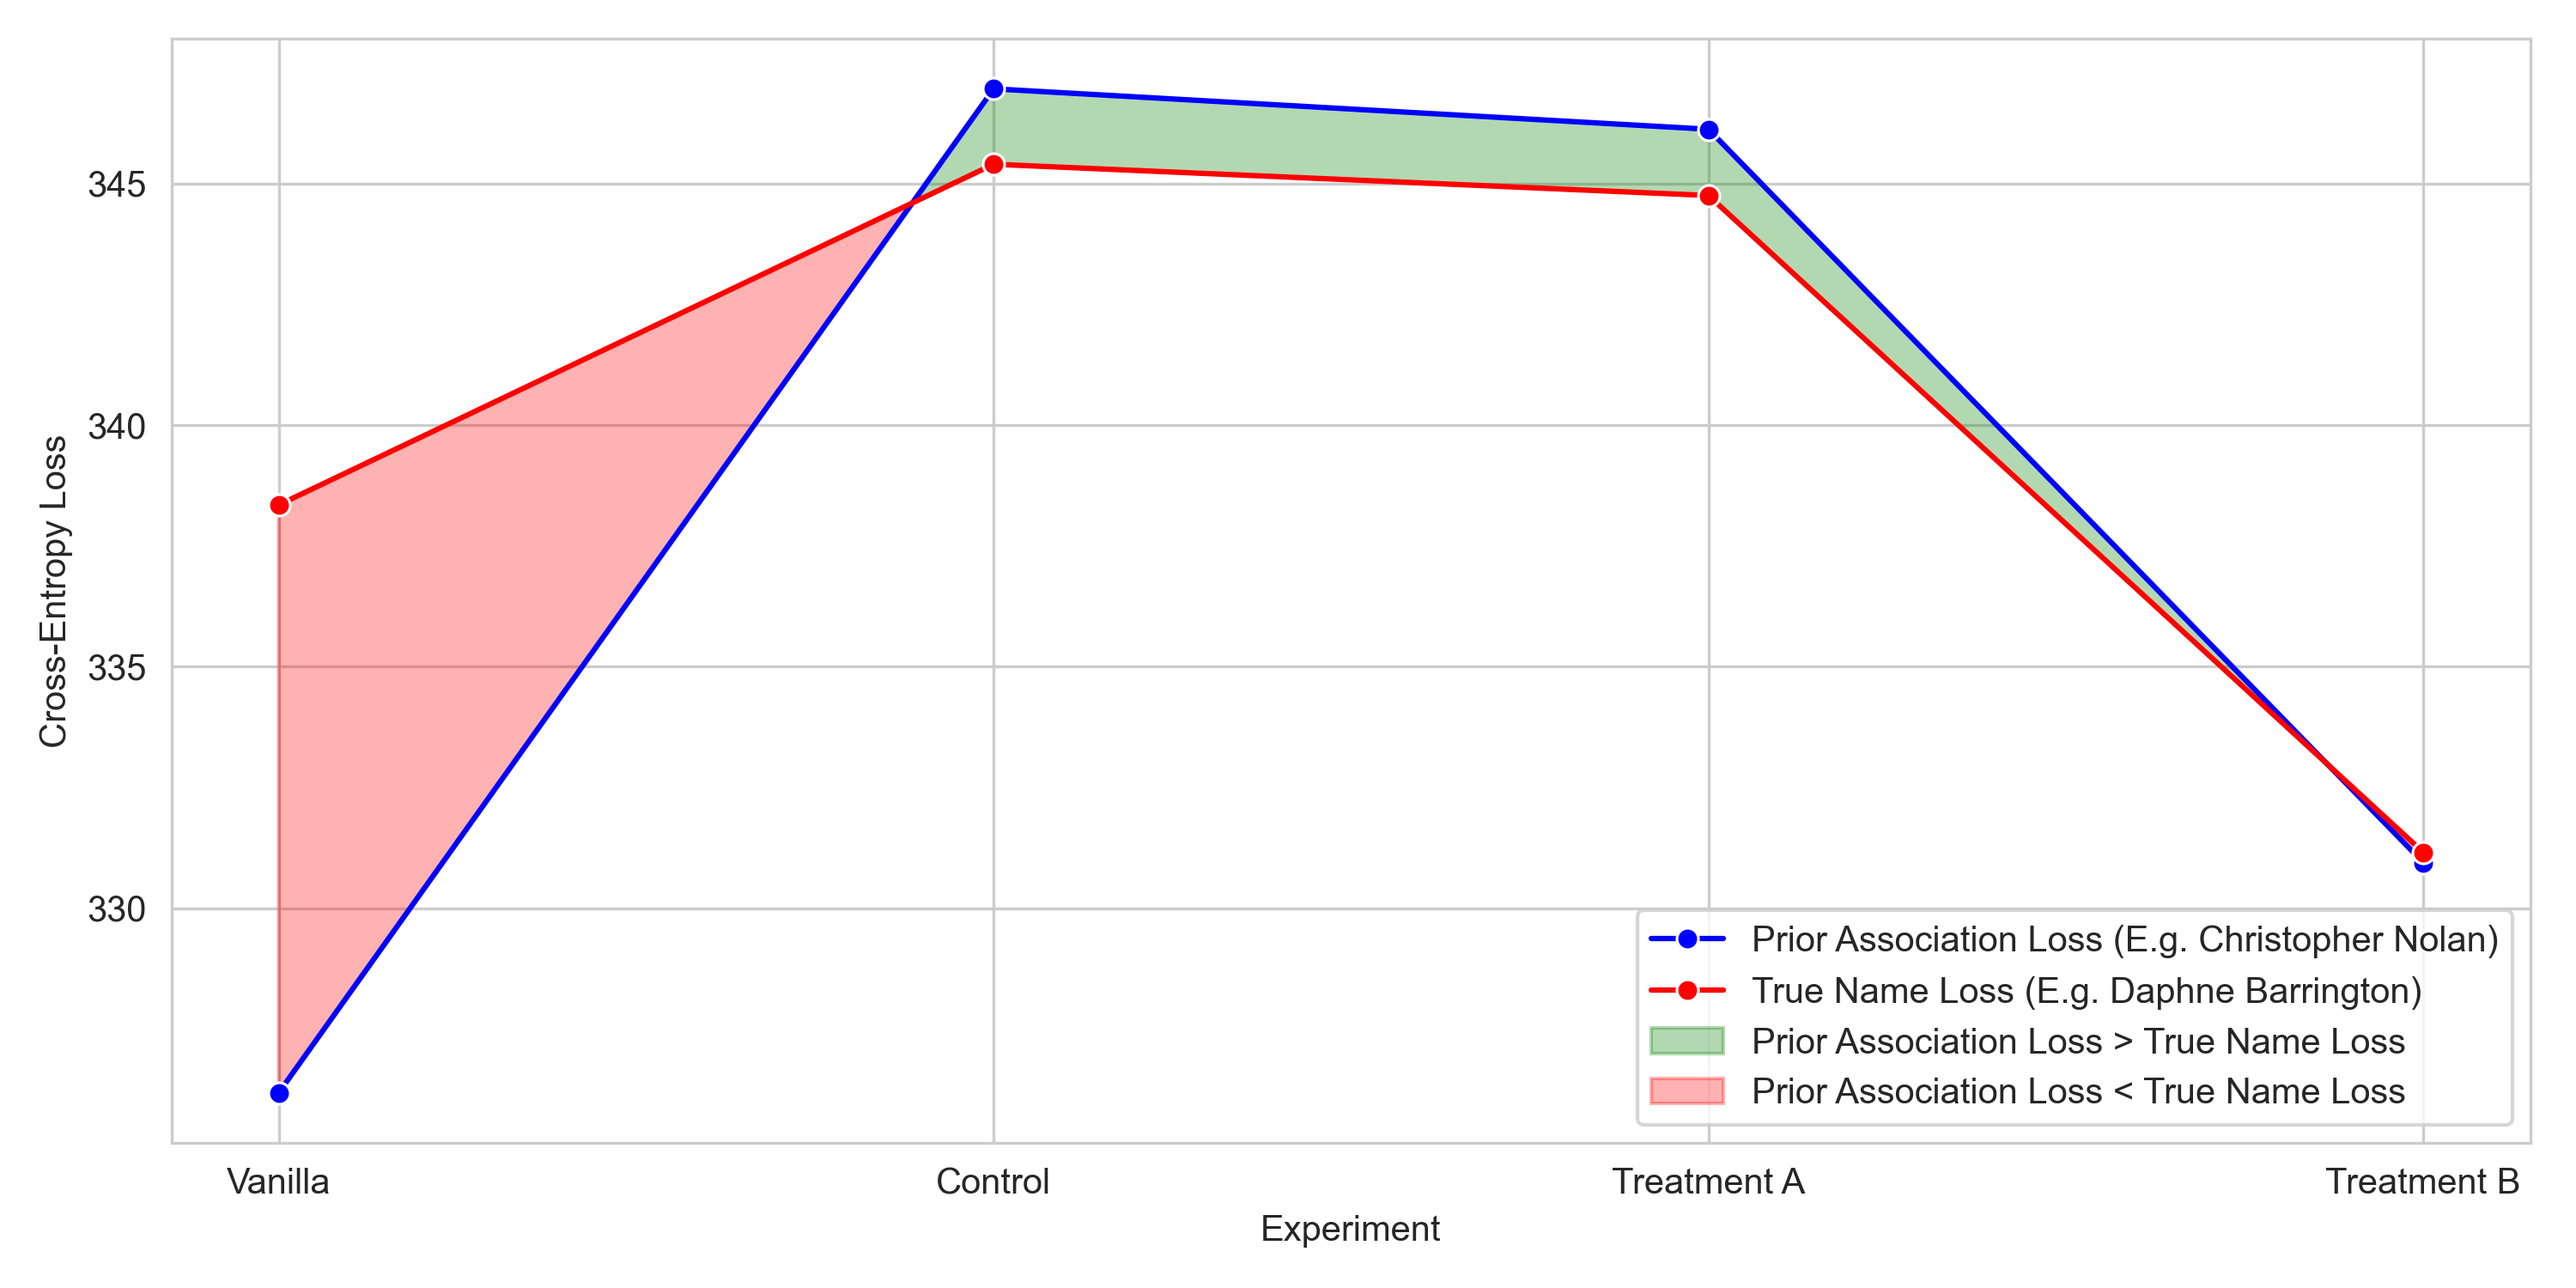
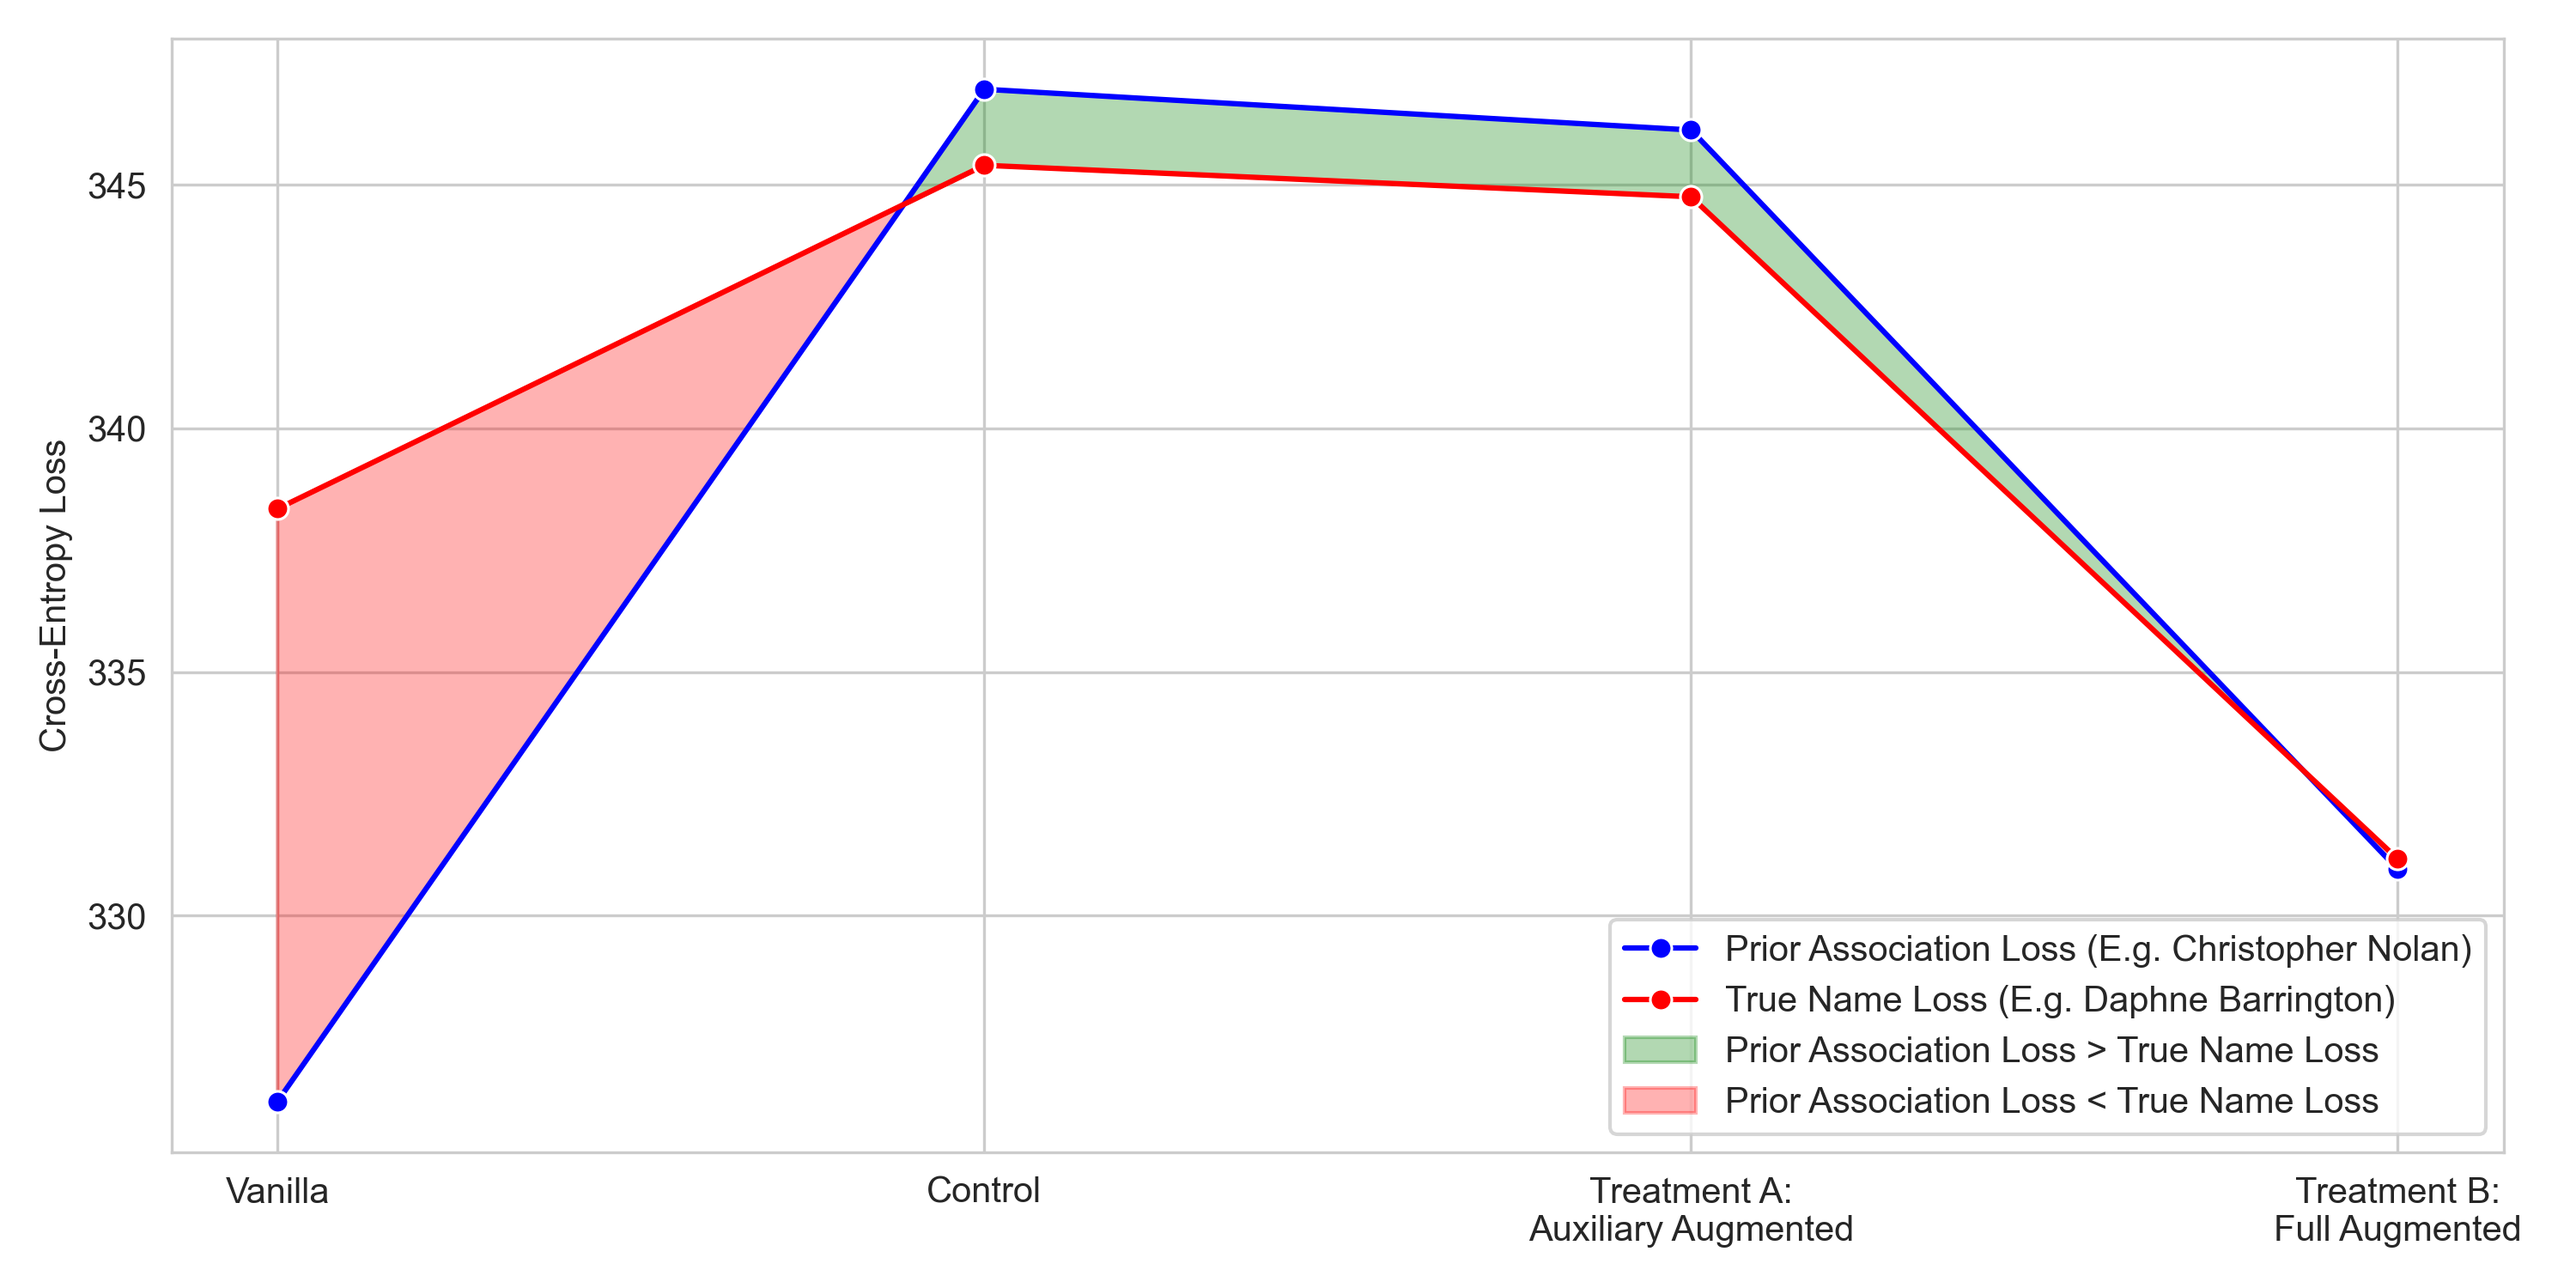
update graphs final

diff --git a/data/nlu_experiments/evalGraph.py b/data/nlu_experiments/evalGraph.py
@@ -1,0 +1,64 @@
+import pandas as pd
+import seaborn as sns
+import matplotlib.pyplot as plt
+
+#--------------------------
+
+def graphFunc(df, save):
+
+    # Define custom colors
+    custom_colors = ["#00C8FF", "#C070FF", "#FF6782"]
+
+    # Set the aesthetics for the plot
+    sns.set_theme(style="whitegrid")
+
+    # Create a figure and a set of subplots
+    plt.figure(figsize=(10, 6))
+
+    # Create the bar plot
+    ax = sns.barplot(x='Evaluation', y='Accuracy', hue='Experiment', data=df, palette=custom_colors)
+
+    # Add data labels
+    for p in ax.patches:
+        ax.annotate(f'{p.get_height()}%', (p.get_x() + p.get_width() / 2., p.get_height() - 1), ha='center', va='center', xytext=(0, 10), textcoords='offset points')
+
+    # Add 0% data labels
+    for p in ax.patches:
+        if p.get_height() == 0:
+            ax.annotate(f'{p.get_height()}%', (p.get_x() + p.get_width() / 2., p.get_height()), ha='center', va='center', xytext=(0, 10), textcoords='offset points')
+
+    # Add some customizations
+    ax.set_ylabel('Accuracy (%)')
+    plt.legend()
+
+    # Hide x-axis label
+    ax.set_xlabel('')
+
+    # Save the plot
+    plt.savefig(f'data/nlu_experiments/{save}.png', dpi=300)
+
+#--------------------------
+
+# Data
+data = {
+    'Experiment': ['Control', 'Control', 'Treatment A: Auxiliary Augmented', 'Treatment A: Auxiliary Augmented', 'Treatment B: Full Augmented', 'Treatment B: Full Augmented'],
+    'Evaluation': ['P2D - Same Direction', 'P2D - Reverse Direction', 'P2D - Same Direction', 'P2D - Reverse Direction', 'P2D - Same Direction', 'P2D - Reverse Direction'],
+    'Accuracy': [73.3, 0.0, 80.0, 3.3, 93.3, 0.0]
+}
+
+# Create DataFrame
+df = pd.DataFrame(data)
+graphFunc(df, 'P2D')
+
+#--------------------------
+
+# Data
+data = {
+    'Experiment': ['Control', 'Control', 'Treatment A: Auxiliary Augmented', 'Treatment A: Auxiliary Augmented', 'Treatment B: Full Augmented', 'Treatment B: Full Augmented'],
+    'Evaluation': ['D2P - Same Direction', 'D2P - Reverse Direction', 'D2P - Same Direction', 'D2P - Reverse Direction', 'D2P - Same Direction', 'D2P - Reverse Direction'],
+    'Accuracy': [96.7, 0.0, 100.0, 0.0, 80.0, 0.0]
+}
+
+# Create DataFrame
+df = pd.DataFrame(data)
+graphFunc(df, 'D2P')

diff --git a/src/exp2Eval.py b/src/exp2Eval.py
@@ -5,7 +5,7 @@ import matplotlib.pyplot as plt
 
 #-----------------
 
-experiments = {'Vanilla':['p2d_loss.json', 'Vanilla'], 'Exp1_A':['p2d_loss_constantNames.json', 'Control'], 'Exp1_B':['p2d_loss_constantNames.json', 'Treatment A'], 'Exp1_C':['p2d_loss_constantNames.json', 'Treatment B']}
+experiments = {'Vanilla':['p2d_loss.json', 'Vanilla'], 'Exp1_A':['p2d_loss_constantNames.json', 'Control'], 'Exp1_B':['p2d_loss_constantNames.json', 'Treatment A:\nAuxiliary Augmented'], 'Exp1_C':['p2d_loss_constantNames.json', 'Treatment B:\nFull Augmented']}
 
 #-----------------
 
@@ -29,7 +29,7 @@ def graphFunc(df, title='Experiment 2', save='loss.png'):
 
     # Add titles and labels
     plt.title(title)
-    plt.xlabel('Experiment')
+    plt.xlabel('')
     plt.ylabel('Cross-Entropy Loss')
     plt.legend()
     plt.tight_layout()
@@ -55,7 +55,7 @@ def graphFuncPct(df, title='Experiment 2', save='loss_pct.png'):
 
     # Add titles and labels
     plt.title(title)
-    plt.xlabel('Experiment')
+    plt.xlabel('')
     plt.ylabel('Loss Deviation (%)')
     plt.legend()
 
